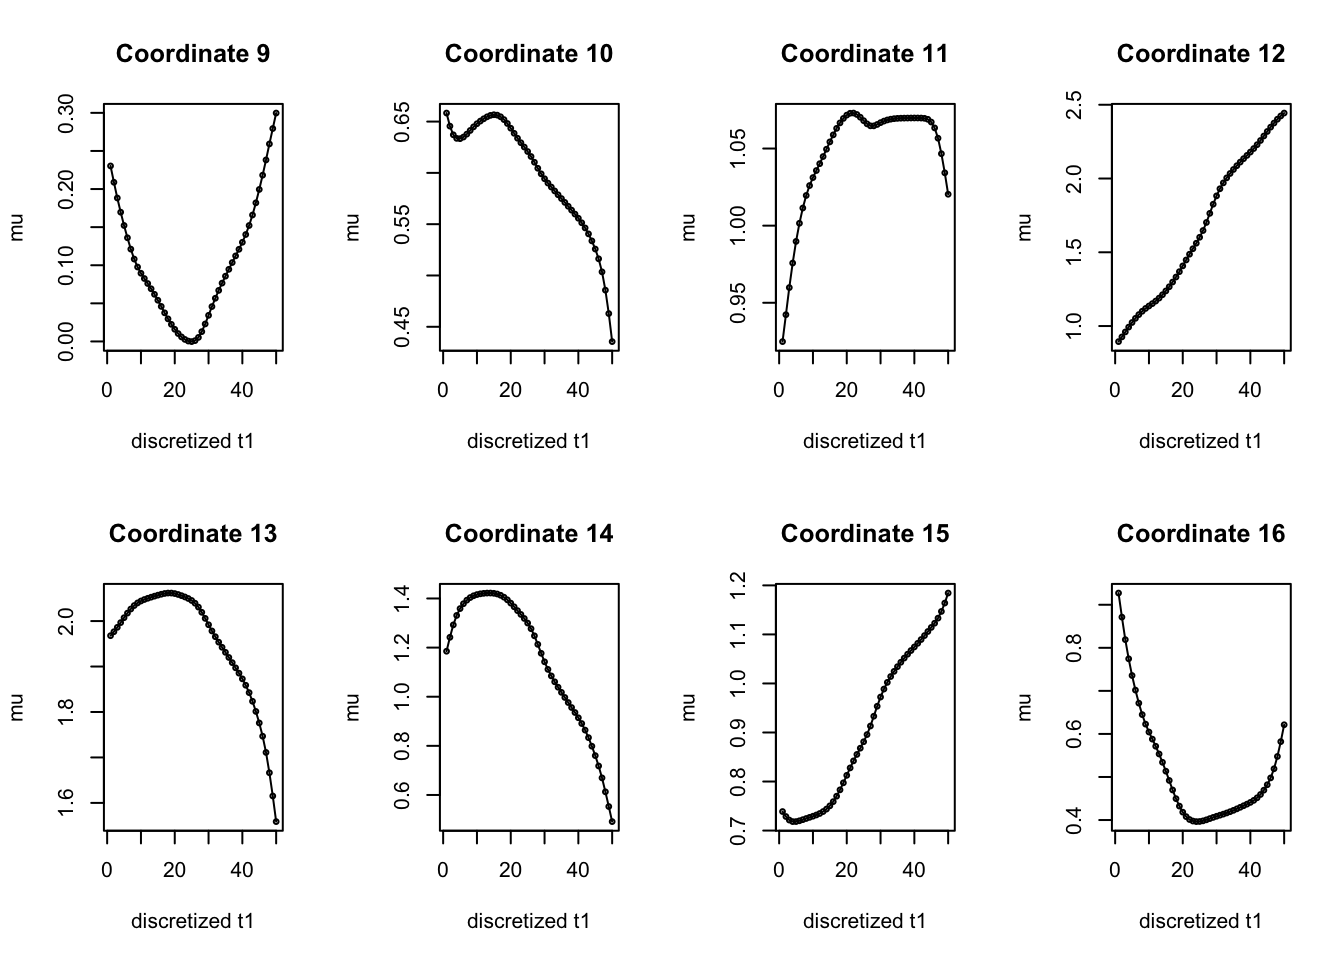
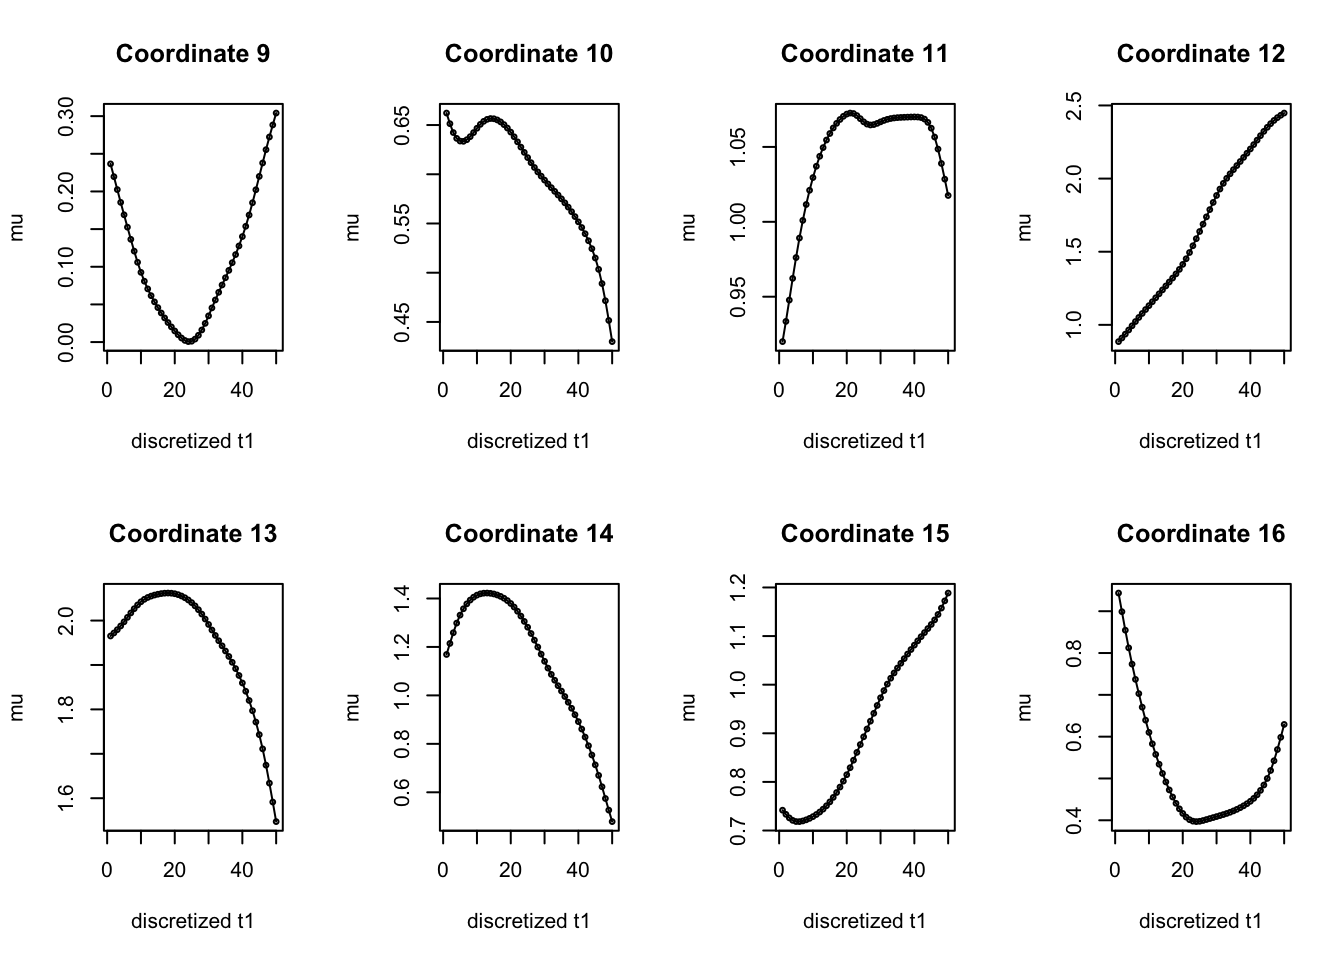
Build site.

diff --git a/docs/explore_SmoothEM_Mixture.html b/docs/explore_SmoothEM_Mixture.html
@@ -510,15 +510,15 @@ project makes it easier to run your code on other machines.</p>
 <div class="panel panel-default">
 <div class="panel-heading">
 <p class="panel-title">
-<a data-toggle="collapse" data-parent="#workflowr-checks" href="#strongRepositoryversionstrongahrefhttpsgithubcomAgueroZZInferOrdertreefa43d768ce86829ede57d13d7daaeaa6827a8bedtargetblankfa43d76a">
+<a data-toggle="collapse" data-parent="#workflowr-checks" href="#strongRepositoryversionstrongahrefhttpsgithubcomAgueroZZInferOrdertreee8fa00c80b8fbe3852390e1b2ab7a68dfec75eabtargetblanke8fa00ca">
 <span class="glyphicon glyphicon-ok text-success"
 aria-hidden="true"></span> <strong>Repository version:</strong>
-<a href="https://github.com/AgueroZZ/InferOrder/tree/fa43d768ce86829ede57d13d7daaeaa6827a8bed" target="_blank">fa43d76</a>
+<a href="https://github.com/AgueroZZ/InferOrder/tree/e8fa00c80b8fbe3852390e1b2ab7a68dfec75eab" target="_blank">e8fa00c</a>
 </a>
 </p>
 </div>
 <div
[2 lines of base64/hex data omitted]
 class="panel-collapse collapse">
 <div class="panel-body">
 <p>
@@ -528,7 +528,7 @@ reproducibility.
 </p>
 <p>
 The results in this page were generated with repository version
-<a href="https://github.com/AgueroZZ/InferOrder/tree/fa43d768ce86829ede57d13d7daaeaa6827a8bed" target="_blank">fa43d76</a>.
+<a href="https://github.com/AgueroZZ/InferOrder/tree/e8fa00c80b8fbe3852390e1b2ab7a68dfec75eab" target="_blank">e8fa00c</a>.
 See the <em>Past versions</em> tab to see a history of the changes made
 to the R Markdown and HTML files.
 </p>
@@ -600,6 +600,40 @@ Message
 </tr>
 </thead>
 <tbody>
+<tr>
+<td>
+Rmd
+</td>
+<td>
+<a href="https://github.com/AgueroZZ/InferOrder/blob/e8fa00c80b8fbe3852390e1b2ab7a68dfec75eab/analysis/explore_SmoothEM_Mixture.rmd" target="_blank">e8fa00c</a>
+</td>
+<td>
+Ziang Zhang
+</td>
+<td>
+2025-08-01
+</td>
+<td>
+workflowr::wflow_publish("analysis/explore_SmoothEM_Mixture.rmd")
+</td>
+</tr>
+<tr>
+<td>
+html
+</td>
+<td>
+<a href="https://rawcdn.githack.com/AgueroZZ/InferOrder/0fdf6de4af7c0fd1e5e385d91d511efc90b3e95a/docs/explore_SmoothEM_Mixture.html" target="_blank">0fdf6de</a>
+</td>
+<td>
+Ziang Zhang
+</td>
+<td>
+2025-08-01
+</td>
+<td>
+Build site.
+</td>
+</tr>
 <tr>
 <td>
 Rmd
@@ -997,6 +1031,17 @@ Date
 <tbody>
 <tr>
 <td>
+<a href="https://github.com/AgueroZZ/InferOrder/blob/0fdf6de4af7c0fd1e5e385d91d511efc90b3e95a/docs/figure/explore_SmoothEM_Mixture.rmd/unnamed-chunk-3-1.png" target="_blank">0fdf6de</a>
+</td>
+<td>
+Ziang Zhang
+</td>
+<td>
+2025-08-01
+</td>
+</tr>
+<tr>
+<td>
 <a href="https://github.com/AgueroZZ/InferOrder/blob/8b58637523b8fb11b49895529baaba189fe77ee7/docs/figure/explore_SmoothEM_Mixture.rmd/unnamed-chunk-3-1.png" target="_blank">8b58637</a>
 </td>
 <td>
@@ -1045,6 +1090,17 @@ Date
 <tbody>
 <tr>
 <td>
+<a href="https://github.com/AgueroZZ/InferOrder/blob/0fdf6de4af7c0fd1e5e385d91d511efc90b3e95a/docs/figure/explore_SmoothEM_Mixture.rmd/unnamed-chunk-3-2.png" target="_blank">0fdf6de</a>
+</td>
+<td>
+Ziang Zhang
+</td>
+<td>
+2025-08-01
+</td>
+</tr>
+<tr>
+<td>
 <a href="https://github.com/AgueroZZ/InferOrder/blob/8b58637523b8fb11b49895529baaba189fe77ee7/docs/figure/explore_SmoothEM_Mixture.rmd/unnamed-chunk-3-2.png" target="_blank">8b58637</a>
 </td>
 <td>
@@ -1068,7 +1124,7 @@ res &lt;- two_ordering_smoothEM(
   X = X, K = 50,
   modelName = &quot;EEI&quot;,
   make_Q_prior = make_random_walk_precision,
-  lambda_vec = c(20, 20),
+  lambda_vec = c(50, 50),
   relative_lambda = TRUE,
   rw_order_vec = c(2, 2),
   reassign_by = &quot;posterior&quot;,
@@ -1076,7 +1132,7 @@ res &lt;- two_ordering_smoothEM(
   verbose = TRUE
 )</code></pre>
 <pre><code>Iteration  1: reassigned 4 coordinates (J1 = 8, J2 = 8)
-Iteration  2: reassigned 4 coordinates (J1 = 6, J2 = 10)
+Iteration  2: reassigned 6 coordinates (J1 = 10, J2 = 6)
 Iteration  3: reassigned 0 coordinates (J1 = 8, J2 = 8)</code></pre>
 <p>Let’s check the inferred latent orderings.</p>
 <pre class="r"><code>res$coord_assign[order(permut_cols)]</code></pre>
@@ -1118,6 +1174,17 @@ Date
 </tr>
 </thead>
 <tbody>
+<tr>
+<td>
+<a href="https://github.com/AgueroZZ/InferOrder/blob/0fdf6de4af7c0fd1e5e385d91d511efc90b3e95a/docs/figure/explore_SmoothEM_Mixture.rmd/unnamed-chunk-6-1.png" target="_blank">0fdf6de</a>
+</td>
+<td>
+Ziang Zhang
+</td>
+<td>
+2025-08-01
+</td>
+</tr>
 <tr>
 <td>
 <a href="https://github.com/AgueroZZ/InferOrder/blob/8b58637523b8fb11b49895529baaba189fe77ee7/docs/figure/explore_SmoothEM_Mixture.rmd/unnamed-chunk-6-1.png" target="_blank">8b58637</a>
@@ -1169,6 +1236,17 @@ Date
 </tr>
 </thead>
 <tbody>
+<tr>
+<td>
+<a href="https://github.com/AgueroZZ/InferOrder/blob/0fdf6de4af7c0fd1e5e385d91d511efc90b3e95a/docs/figure/explore_SmoothEM_Mixture.rmd/unnamed-chunk-7-1.png" target="_blank">0fdf6de</a>
+</td>
+<td>
+Ziang Zhang
+</td>
+<td>
+2025-08-01
+</td>
+</tr>
 <tr>
 <td>
 <a href="https://github.com/AgueroZZ/InferOrder/blob/8b58637523b8fb11b49895529baaba189fe77ee7/docs/figure/explore_SmoothEM_Mixture.rmd/unnamed-chunk-7-1.png" target="_blank">8b58637</a>
